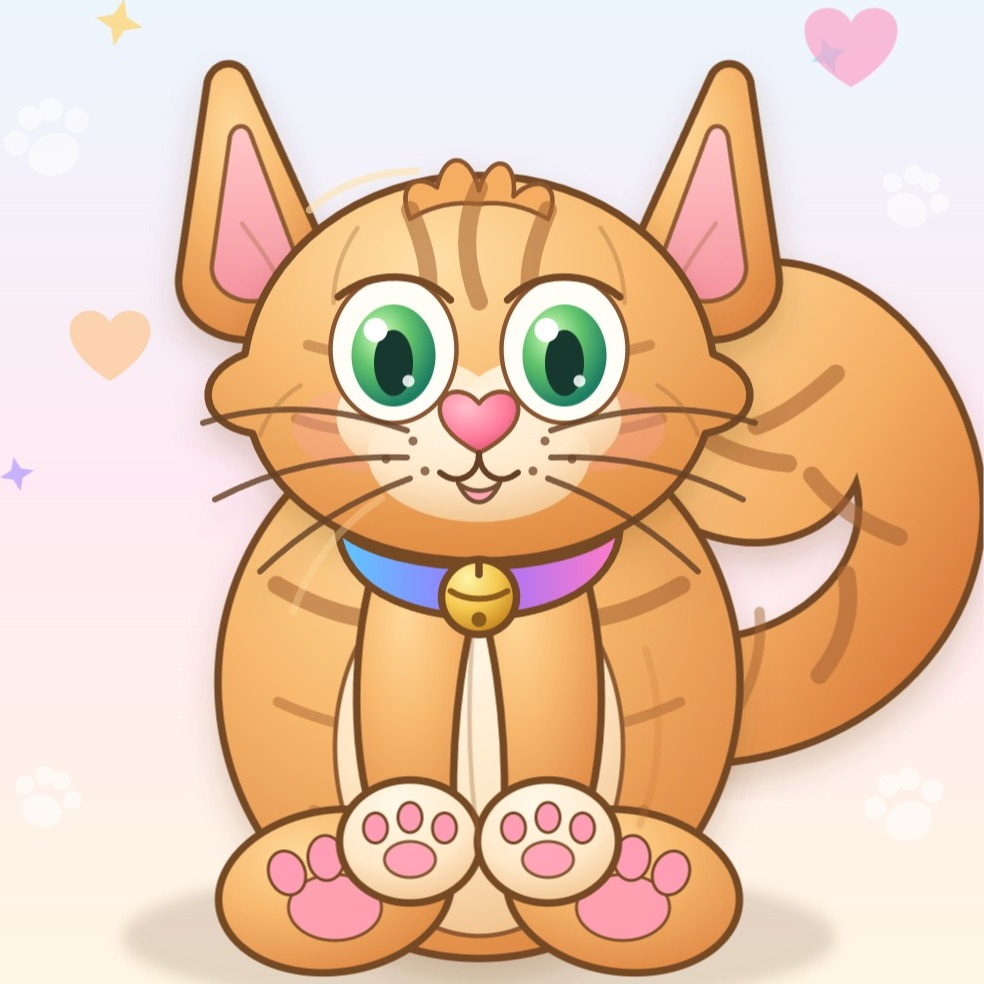
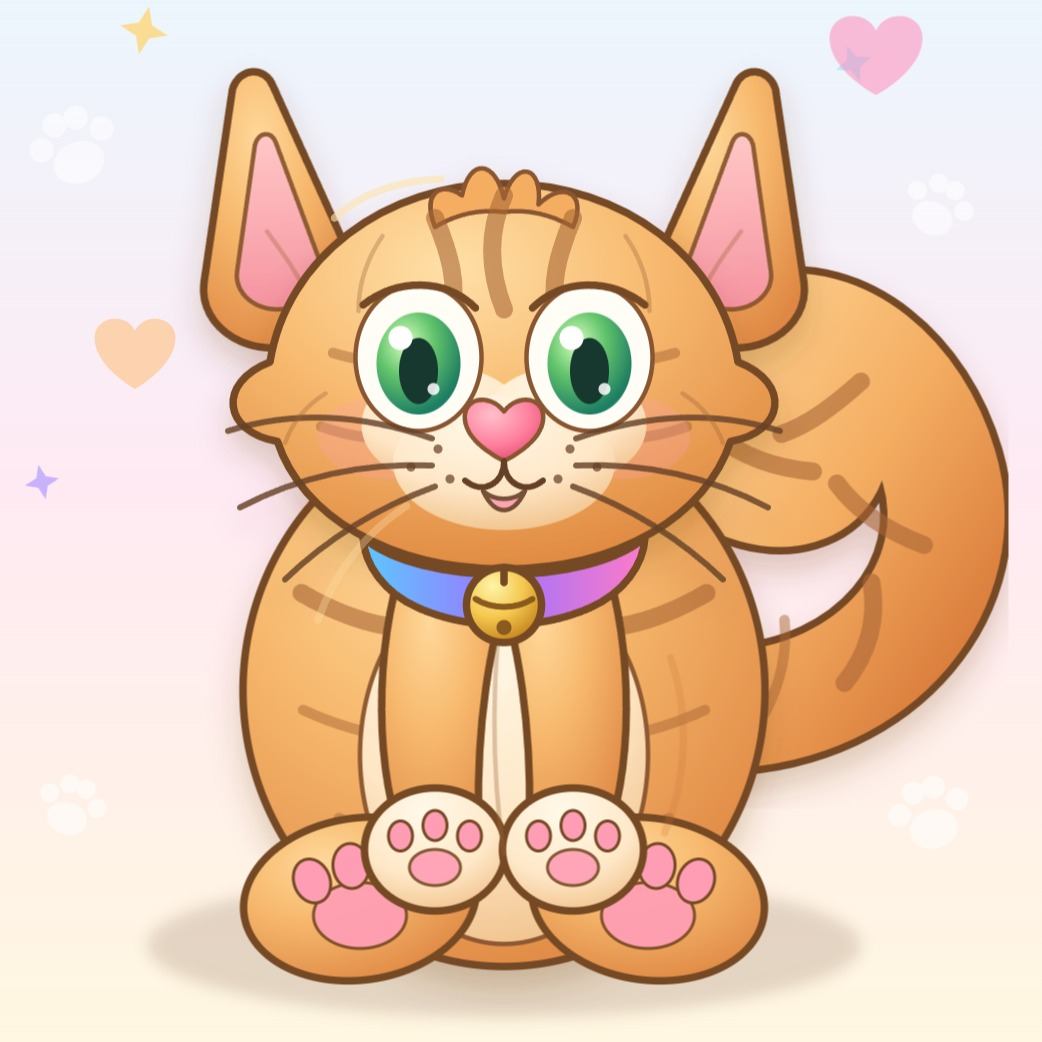
fix(catbench): soften autocrop, keep shadows and highlights

diff --git a/demos/CatBench/index.html b/demos/CatBench/index.html
@@ -426,11 +426,8 @@ function attachSvgAutoCrop(obj) {
     if (!fullW || !fullH) return;
     let minX = Infinity, minY = Infinity, maxX = -Infinity, maxY = -Infinity;
     const skip = new Set(['defs', 'metadata', 'title', 'desc', 'style']);
-    const isBackdrop = (tag, b, el) => {
-      const op = parseFloat(el.getAttribute('opacity') || el.style.opacity || '1');
-      if (op < 0.35) return true;
-      if (tag === 'rect' && b.width >= fullW * 0.9 && b.height >= fullH * 0.9) return true;
-      if (tag === 'ellipse' && b.width >= fullW * 0.7 && b.height <= fullH * 0.18) return true;
+    const isBackdrop = (tag, b) => {
+      if (tag === 'rect' && b.width >= fullW * 0.95 && b.height >= fullH * 0.95) return true;
       return false;
     };
     const walk = (el) => {
@@ -441,7 +438,7 @@ function attachSvgAutoCrop(obj) {
         try {
           const b = c.getBBox();
           if (b.width === 0 && b.height === 0) continue;
-          if (isBackdrop(tag, b, c)) continue;
+          if (isBackdrop(tag, b)) continue;
           if (b.x < minX) minX = b.x;
           if (b.y < minY) minY = b.y;
           if (b.x + b.width > maxX) maxX = b.x + b.width;
@@ -452,6 +449,8 @@ function attachSvgAutoCrop(obj) {
     walk(svg);
     if (!isFinite(minX)) return;
     let x = minX, y = minY, w = maxX - minX, h = maxY - minY;
+    const pad = Math.max(w, h) * 0.02;
+    x -= pad; y -= pad; w += 2 * pad; h += 2 * pad;
     const side = Math.max(w, h);
     x -= (side - w) / 2;
     y -= (side - h) / 2;

diff --git a/scripts/autocrop_assets.py b/scripts/autocrop_assets.py
@@ -1,9 +1,9 @@
 #!/usr/bin/env python3
-"""Auto-crop CatBench raster assets to a tight 1:1 square around the subject.
+"""Auto-crop CatBench raster assets to a 1:1 square around the subject.
 
-Flood-fills background from image edges (corner colour + tolerance), also
-treats pale low-saturation pixels as background. Crops to the subject bbox
-with no padding, then extracts the smallest centred square. No margin fill.
+Flood-fills only edge-connected background (corner colour + tolerance). Keeps
+soft fur, highlights, and drop shadows inside the frame. Small padding avoids
+hard clips through anti-aliased edges.
 """
 from __future__ import annotations
 
@@ -18,9 +18,8 @@ ROOT = Path(__file__).resolve().parent.parent
 ASSETS = ROOT / "demos" / "CatBench" / "assets"
 
 CROP_EXTS = {".png", ".jpg", ".jpeg"}
-BG_TOLERANCE = 20       # per-channel diff from edge bg colour
-PALE_LUMA = 230         # 0-255, pixels brighter than this...
-PALE_SAT = 0.14         # ...and less saturated than this count as background
+BG_TOLERANCE = 18
+PADDING_PCT = 0.02
 
 
 def detect_bg(rgb: np.ndarray) -> tuple[int, int, int]:
@@ -60,22 +59,22 @@ def flood_background(rgb: np.ndarray, bg: tuple[int, int, int], tol: int) -> np.
     return visited
 
 
-def pale_background(rgb: np.ndarray) -> np.ndarray:
-    px = rgb.astype(np.float32) / 255.0
-    maxc = px.max(axis=2)
-    minc = px.min(axis=2)
-    sat = np.divide(maxc - minc, maxc, out=np.zeros_like(maxc), where=maxc > 0)
-    luma = 0.299 * px[:, :, 0] + 0.587 * px[:, :, 1] + 0.114 * px[:, :, 2]
-    return (luma >= PALE_LUMA / 255.0) & (sat <= PALE_SAT)
-
-
 def subject_bbox(rgb: np.ndarray) -> tuple[int, int, int, int] | None:
     bg = detect_bg(rgb)
-    is_bg = flood_background(rgb, bg, BG_TOLERANCE) | pale_background(rgb)
+    is_bg = flood_background(rgb, bg, BG_TOLERANCE)
     ys, xs = np.where(~is_bg)
     if ys.size == 0:
         return None
-    return int(xs.min()), int(ys.min()), int(xs.max()) + 1, int(ys.max()) + 1
+    x0, y0, x1, y1 = int(xs.min()), int(ys.min()), int(xs.max()) + 1, int(ys.max()) + 1
+    bw, bh = x1 - x0, y1 - y0
+    px, py = int(bw * PADDING_PCT), int(bh * PADDING_PCT)
+    h, w, _ = rgb.shape
+    return (
+        max(0, x0 - px),
+        max(0, y0 - py),
+        min(w, x1 + px),
+        min(h, y1 + py),
+    )
 
 
 def square_crop(img: Image.Image, bbox: tuple[int, int, int, int]) -> Image.Image:
@@ -104,9 +103,7 @@ def square_crop(img: Image.Image, bbox: tuple[int, int, int, int]) -> Image.Imag
         bottom = ih
 
     side = min(right - left, bottom - top)
-    right = left + side
-    bottom = top + side
-    return img.crop((left, top, right, bottom))
+    return img.crop((left, top, left + side, top + side))
 
 
 def autocrop(img: Image.Image) -> Image.Image:
@@ -114,8 +111,7 @@ def autocrop(img: Image.Image) -> Image.Image:
     bbox = subject_bbox(rgb)
     if not bbox:
         return img
-    cropped = img.crop(bbox)
-    return square_crop(cropped, (0, 0, cropped.size[0], cropped.size[1]))
+    return square_crop(img, bbox)
 
 
 def process(path: Path) -> bool:
